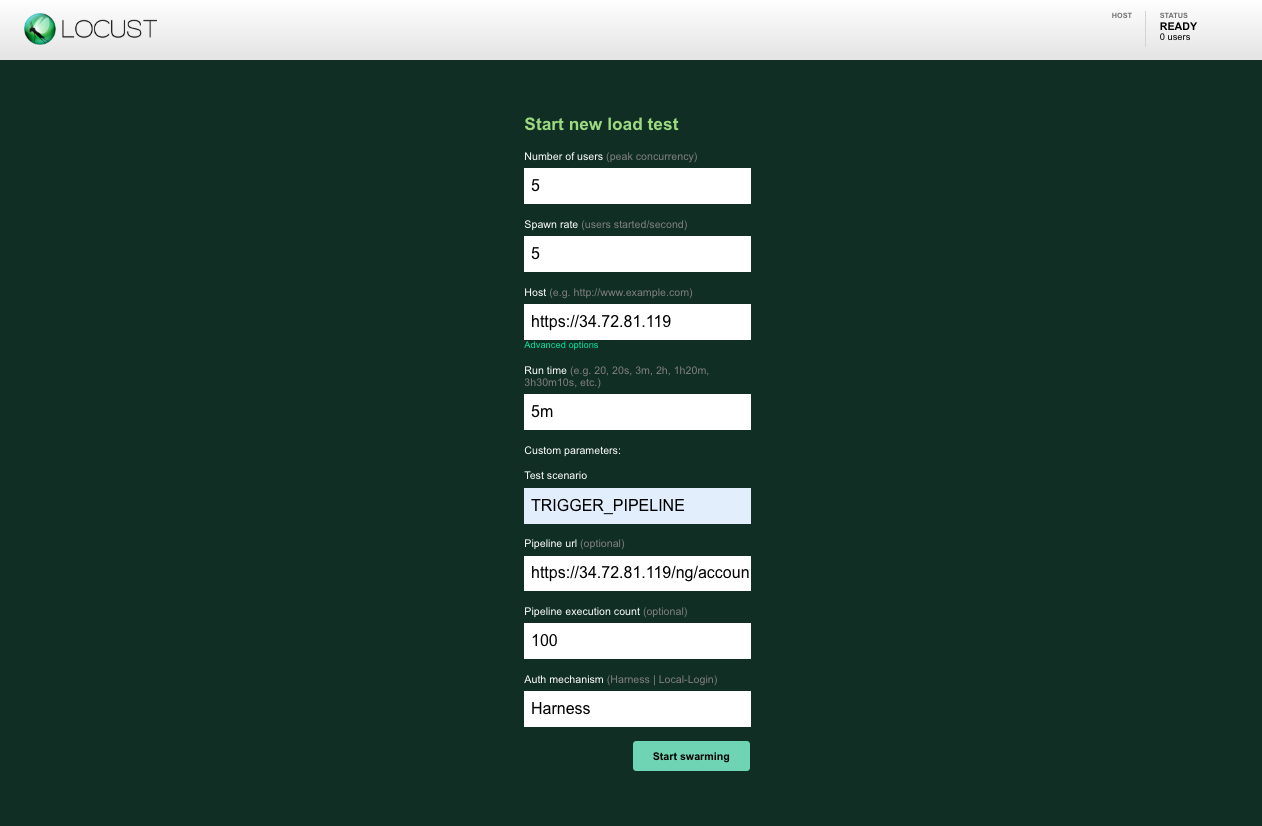
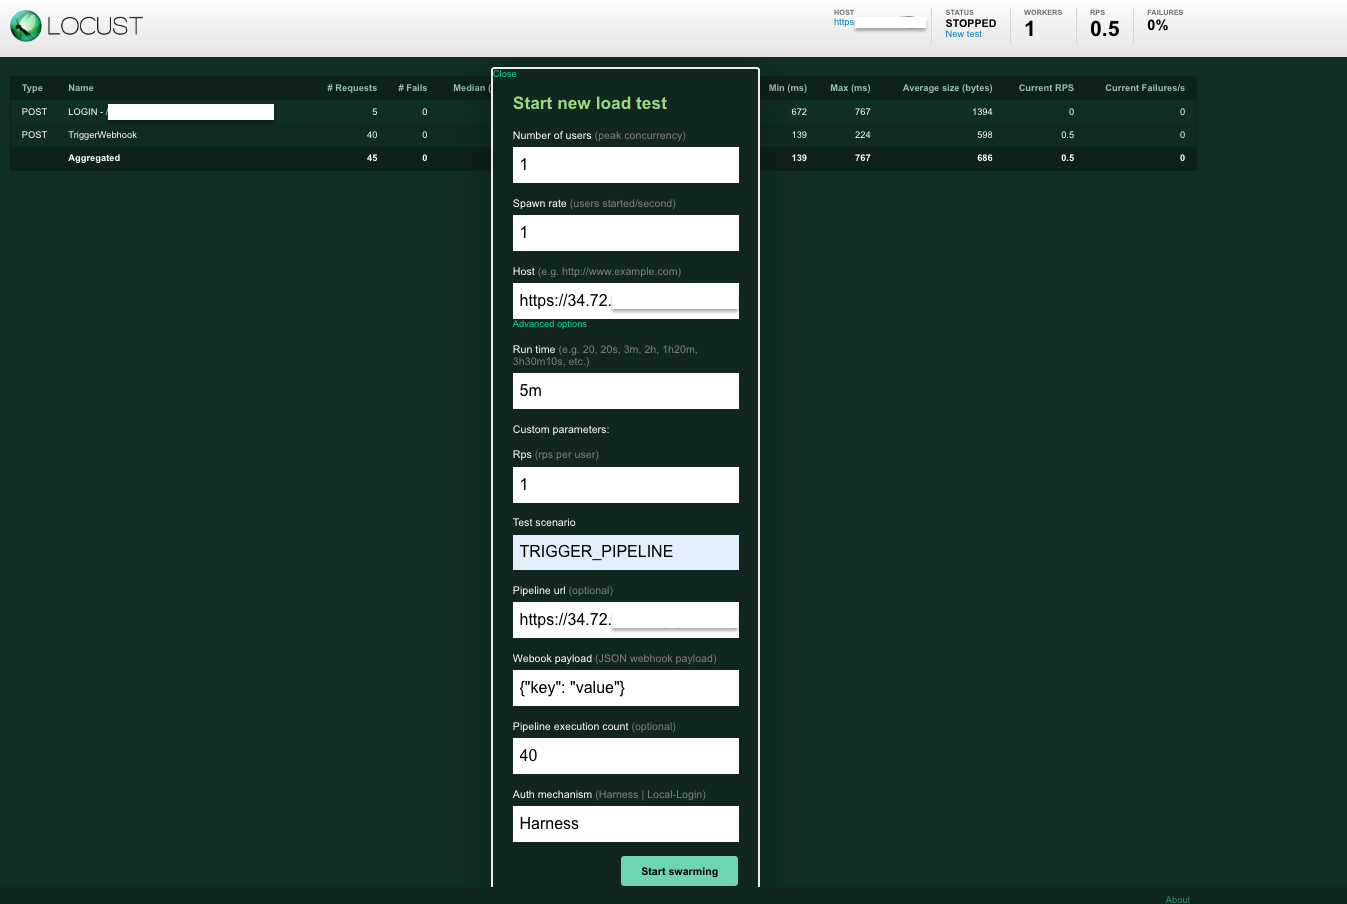
enable rps for all test classes

Changed region(s): [[0.0, 0.0, 1.0, 0.9988], [0.6181, 0.0, 0.649, 0.0303]]

diff --git a/locust_tasks/ci_pipeline_remote_run.py b/locust_tasks/ci_pipeline_remote_run.py
@@ -7,7 +7,7 @@ import yaml
 import base64
 import logging
 from locust.runners import LocalRunner, MasterRunner, WorkerRunner, STATE_STOPPING, STATE_STOPPED, STATE_CLEANUP
-from locust import task, constant_pacing, SequentialTaskSet, events
+from locust import task, constant_pacing, SequentialTaskSet, events, constant_throughput
 from locust.runners import WorkerRunner
 from locust_tasks.helpers.ng import account, organization, project, resourcegroup, \
     role, smtp, user, usergroup, gitsync, dashboard, connector, secret, pipeline, ti, log_service, \
@@ -50,6 +50,8 @@ def initiator(environment, **kwargs):
     environment.runner.state = "TESTDATA SETUP"
     global auth_mechanism
     auth_mechanism = environment.parsed_options.auth_mechanism
+    global rps
+    rps = float(environment.parsed_options.rps)
     try:
         testdata_setup = False
         arr = utils.getTestClasses(environment)
@@ -262,7 +264,15 @@ def create_ci_trigger_remote(hostname, identifier, accountId, orgId, projectId, 
 # Trigger pipeline added above 'deployment_count_needed' times
 class CI_PIPELINE_REMOTE_RUN(SequentialTaskSet):
     def data_initiator(self):
-        self.__class__.wait_time = constant_pacing(1 // 1)
+        try:
+            if rps > 0:
+                print(f"Current RPS requested per user : {rps}")
+                self.__class__.wait_time = constant_throughput(rps)
+            else:
+                if hasattr(self.__class__, 'wait_time'):
+                    del self.__class__.wait_time
+        except AttributeError:
+            pass
 
     def authentication(self):
         creds = next(utils.userid_list)[0].split(':')
@@ -279,7 +289,7 @@ class CI_PIPELINE_REMOTE_RUN(SequentialTaskSet):
             print("Login request failure..")
             print(f"{response.request.url} {payload} {response.status_code} {response.content}")
             print("--------------------------")
-            raise StopUser()
+            utils.stopLocustTests()
         else:
             resp = response.content
             json_resp = json.loads(resp)
@@ -295,7 +305,7 @@ class CI_PIPELINE_REMOTE_RUN(SequentialTaskSet):
     def triggerPipeline(self):
         global deployment_count
         deployment_count += 1
-        if deployment_count < deployment_count_needed:
+        if deployment_count <= deployment_count_needed:
             response = helpers.triggerWithWebHook(self, accountId, uniqueId)
 
             if response.status_code == 200:

diff --git a/locust_tasks/ci_pipeline_webhook_run.py b/locust_tasks/ci_pipeline_webhook_run.py
@@ -8,7 +8,7 @@ import base64
 import logging
 import random
 from locust.runners import LocalRunner, MasterRunner, WorkerRunner, STATE_STOPPING, STATE_STOPPED, STATE_CLEANUP
-from locust import task, constant_pacing, SequentialTaskSet, events
+from locust import task, constant_pacing, SequentialTaskSet, events, constant_throughput
 from locust.runners import WorkerRunner
 from locust_tasks.helpers.ng import account, organization, project, resourcegroup, \
     role, smtp, user, usergroup, gitsync, dashboard, connector, secret, pipeline, ti, log_service, \
@@ -51,6 +51,8 @@ def initiator(environment, **kwargs):
     environment.runner.state = "TESTDATA SETUP"
     global auth_mechanism
     auth_mechanism = environment.parsed_options.auth_mechanism
+    global rps
+    rps = float(environment.parsed_options.rps)
     try:
         testdata_setup = False
         arr = utils.getTestClasses(environment)
@@ -241,7 +243,15 @@ def create_ci_trigger_remote(hostname, identifier, accountId, orgId, projectId, 
 # Trigger non-git pipeline added above 'deployment_count_needed' times
 class CI_PIPELINE_WEBHOOK_RUN(SequentialTaskSet):
     def data_initiator(self):
-        self.__class__.wait_time = constant_pacing(1 // 1)
+        try:
+            if rps > 0:
+                print(f"Current RPS requested per user : {rps}")
+                self.__class__.wait_time = constant_throughput(rps)
+            else:
+                if hasattr(self.__class__, 'wait_time'):
+                    del self.__class__.wait_time
+        except AttributeError:
+            pass
 
     def authentication(self):
         creds = next(utils.userid_list)[0].split(':')
@@ -258,7 +268,7 @@ class CI_PIPELINE_WEBHOOK_RUN(SequentialTaskSet):
             print("Login request failure..")
             print(f"{response.request.url} {payload} {response.status_code} {response.content}")
             print("--------------------------")
-            raise StopUser()
+            utils.stopLocustTests()
         else:
             resp = response.content
             json_resp = json.loads(resp)
@@ -269,9 +279,6 @@ class CI_PIPELINE_WEBHOOK_RUN(SequentialTaskSet):
     def on_start(self):
         self.data_initiator()
         self.authentication()
-
-    @task
-    def setup_data(self):
         self.orgId = "auto_org_" + uniqueId
 
     @task

diff --git a/locust_tasks/ci_pipeline_run.py b/locust_tasks/ci_pipeline_run.py
@@ -8,7 +8,7 @@ import base64
 import logging
 import random
 from locust.runners import LocalRunner, MasterRunner, WorkerRunner, STATE_STOPPING, STATE_STOPPED, STATE_CLEANUP
-from locust import task, constant_pacing, SequentialTaskSet, events
+from locust import task, constant_pacing, SequentialTaskSet, events, constant_throughput
 from locust.runners import WorkerRunner
 from locust_tasks.helpers.ng import account, organization, project, resourcegroup, \
     role, smtp, user, usergroup, gitsync, dashboard, connector, secret, pipeline, ti, log_service, \
@@ -51,6 +51,8 @@ def initiator(environment, **kwargs):
     environment.runner.state = "TESTDATA SETUP"
     global auth_mechanism
     auth_mechanism = environment.parsed_options.auth_mechanism
+    global rps
+    rps = float(environment.parsed_options.rps)
     try:
         testdata_setup = False
         arr = utils.getTestClasses(environment)
@@ -193,7 +195,15 @@ def create_ci_pipeline(hostname, identifier, accountId, orgId, projectId, github
 # Trigger non-git pipeline added above 'deployment_count_needed' times
 class CI_PIPELINE_RUN(SequentialTaskSet):
     def data_initiator(self):
-        self.__class__.wait_time = constant_pacing(1 // 1)
+        try:
+            if rps > 0:
+                print(f"Current RPS requested per user : {rps}")
+                self.__class__.wait_time = constant_throughput(rps)
+            else:
+                if hasattr(self.__class__, 'wait_time'):
+                    del self.__class__.wait_time
+        except AttributeError:
+            pass
 
     def authentication(self):
         creds = next(utils.userid_list)[0].split(':')
@@ -210,7 +220,7 @@ class CI_PIPELINE_RUN(SequentialTaskSet):
             print("Login request failure..")
             print(f"{response.request.url} {payload} {response.status_code} {response.content}")
             print("--------------------------")
-            raise StopUser()
+            utils.stopLocustTests()
         else:
             resp = response.content
             json_resp = json.loads(resp)
@@ -221,9 +231,6 @@ class CI_PIPELINE_RUN(SequentialTaskSet):
     def on_start(self):
         self.data_initiator()
         self.authentication()
-
-    @task
-    def setup_data(self):
         self.orgId = "auto_org_" + uniqueId
 
     @task

diff --git a/locust_tasks/cd_pipeline_run.py b/locust_tasks/cd_pipeline_run.py
@@ -8,7 +8,7 @@ import time
 import gevent
 import yaml
 import requests
-from locust import task, constant_pacing, SequentialTaskSet, events
+from locust import task, constant_pacing, SequentialTaskSet, events, constant_throughput
 from locust.exception import StopUser
 from locust.runners import LocalRunner, MasterRunner, STATE_STOPPING, STATE_STOPPED, STATE_CLEANUP
 from locust.runners import WorkerRunner
@@ -51,6 +51,8 @@ def initiator(environment, **kwargs):
     environment.runner.state = "TESTDATA SETUP"
     global auth_mechanism
     auth_mechanism = environment.parsed_options.auth_mechanism
+    global rps
+    rps = float(environment.parsed_options.rps)
     try:
         testdata_setup = False
         arr = utils.getTestClasses(environment)
@@ -207,7 +209,15 @@ def create_k8s_pipeline(hostname, accountId, orgId, projectId, pipeline_id, serv
 
 class CD_PIPELINE_RUN(SequentialTaskSet):
     def data_initiator(self):
-        self.__class__.wait_time = constant_pacing(1)
+        try:
+            if rps > 0:
+                print(f"Current RPS requested per user : {rps}")
+                self.__class__.wait_time = constant_throughput(rps)
+            else:
+                if hasattr(self.__class__, 'wait_time'):
+                    del self.__class__.wait_time
+        except AttributeError:
+            pass
 
     def authentication(self):
         creds = next(utils.userid_list)[0].split(':')
@@ -224,7 +234,7 @@ class CD_PIPELINE_RUN(SequentialTaskSet):
             print("Login request failure..")
             print(f"{response.request.url} {payload} {response.status_code} {response.content}")
             print("--------------------------")
-            raise StopUser()
+            utils.stopLocustTests()
         else:
             resp = response.content
             json_resp = json.loads(resp)
@@ -235,10 +245,7 @@ class CD_PIPELINE_RUN(SequentialTaskSet):
     def on_start(self):
         self.data_initiator()
         self.authentication()
-
-    @task
-    def setup_data(self):
-        self.orgId = "auto_cd_k8s_org_" + uniqueId
+        self.orgId = "auto_cd_k8s_org_" + uniqueId        
 
     @task
     def trigger_pipeline(self):

diff --git a/locust_tasks/cd_pipeline_webhook_run.py b/locust_tasks/cd_pipeline_webhook_run.py
@@ -8,7 +8,7 @@ import time
 import gevent
 import yaml
 import requests
-from locust import task, constant_pacing, SequentialTaskSet, events
+from locust import task, constant_pacing, SequentialTaskSet, events, constant_throughput
 from locust.exception import StopUser
 from locust.runners import LocalRunner, MasterRunner, STATE_STOPPING, STATE_STOPPED, STATE_CLEANUP
 from locust.runners import WorkerRunner
@@ -51,6 +51,8 @@ def initiator(environment, **kwargs):
     environment.runner.state = "TESTDATA SETUP"
     global auth_mechanism
     auth_mechanism = environment.parsed_options.auth_mechanism
+    global rps
+    rps = float(environment.parsed_options.rps)
     try:
         testdata_setup = False
         arr = utils.getTestClasses(environment)
@@ -256,7 +258,15 @@ def create_cd_trigger_remote(hostname, identifier, accountId, orgId, projectId, 
 
 class CD_PIPELINE_WEBHOOK_RUN(SequentialTaskSet):
     def data_initiator(self):
-        self.__class__.wait_time = constant_pacing(1)
+        try:
+            if rps > 0:
+                print(f"Current RPS requested per user : {rps}")
+                self.__class__.wait_time = constant_throughput(rps)
+            else:
+                if hasattr(self.__class__, 'wait_time'):
+                    del self.__class__.wait_time
+        except AttributeError:
+            pass
 
     def authentication(self):
         creds = next(utils.userid_list)[0].split(':')
@@ -273,7 +283,7 @@ class CD_PIPELINE_WEBHOOK_RUN(SequentialTaskSet):
             print("Login request failure..")
             print(f"{response.request.url} {payload} {response.status_code} {response.content}")
             print("--------------------------")
-            raise StopUser()
+            utils.stopLocustTests()
         else:
             resp = response.content
             json_resp = json.loads(resp)
@@ -284,9 +294,6 @@ class CD_PIPELINE_WEBHOOK_RUN(SequentialTaskSet):
     def on_start(self):
         self.data_initiator()
         self.authentication()
-
-    @task
-    def setup_data(self):
         self.orgId = "auto_cd_k8s_org_" + uniqueId
 
     @task

diff --git a/locust_tasks/entities.py b/locust_tasks/entities.py
@@ -198,7 +198,7 @@ class ORGANIZATION(SequentialTaskSet):
             print("Login request failure..")
             print(f"{response.request.url} {payload} {response.status_code} {response.content}")
             print("--------------------------")
-            raise StopUser()
+            utils.stopLocustTests()
         else:
             resp = response.content
             json_resp = json.loads(resp)
@@ -270,7 +270,7 @@ class PROJECT(SequentialTaskSet):
             print("Login request failure..")
             print(f"{response.request.url} {payload} {response.status_code} {response.content}")
             print("--------------------------")
-            raise StopUser()
+            utils.stopLocustTests()
         else:
             resp = response.content
             json_resp = json.loads(resp)
@@ -345,7 +345,7 @@ class PIPELINE(SequentialTaskSet):
             print("Login request failure..")
             print(f"{response.request.url} {payload} {response.status_code} {response.content}")
             print("--------------------------")
-            raise StopUser()
+            utils.stopLocustTests()
         else:
             resp = response.content
             json_resp = json.loads(resp)

diff --git a/locust_tasks/trigger_pipeline.py b/locust_tasks/trigger_pipeline.py
@@ -75,9 +75,15 @@ def initiator(environment, **kwargs):
 class TRIGGER_PIPELINE(SequentialTaskSet):
 
     def data_initiator(self):
-        if rps != 0:
-            print(f"Current RPS requested per user : {rps}")
-            self.__class__.wait_time = constant_throughput(rps)
+        try:
+            if rps > 0:
+                print(f"Current RPS requested per user : {rps}")
+                self.__class__.wait_time = constant_throughput(rps)
+            else:
+                if hasattr(self.__class__, 'wait_time'):
+                    del self.__class__.wait_time
+        except AttributeError:
+            pass
         self.pipeline_comps = pipeline_link.split('/')
 
         if '/api/webhook' not in pipeline_link:
@@ -101,7 +107,7 @@ class TRIGGER_PIPELINE(SequentialTaskSet):
             print("Login request failure..")
             print(f"{response.request.url} {payload} {response.status_code} {response.content}")
             print("--------------------------")
-            raise StopUser()
+            utils.stopLocustTests()
         else:
             resp = response.content
             json_resp = json.loads(resp)

diff --git a/locust_tasks/helpers/authentication.py b/locust_tasks/helpers/authentication.py
@@ -22,7 +22,7 @@ def getBearerToken(obj, base64UsernamePassword):
     if response.status_code != 200:
         print(response.url)
         print(response.content)
-        raise StopUser()
+        utils.stopLocustTests()
     else:
         resp = response.content
         json_resp = json.loads(resp)
@@ -45,7 +45,7 @@ def getAccountInfo(obj, base64UsernamePassword, authMechanism):
         print(response.url)
         print(payload)
         print(response.content)
-        raise StopUser()
+        utils.stopLocustTests()
     else:
         resp = response.content
         return json.loads(resp)

diff --git a/locust_tasks/ci_pipeline_remote_save.py b/locust_tasks/ci_pipeline_remote_save.py
@@ -218,7 +218,7 @@ class CI_PIPELINE_REMOTE_SAVE(SequentialTaskSet):
             print("Login request failure..")
             print(f"{response.request.url} {payload} {response.status_code} {response.content}")
             print("--------------------------")
-            raise StopUser()
+            utils.stopLocustTests()
         else:
             resp = response.content
             json_resp = json.loads(resp)

diff --git a/locust_tasks/ci_execute_pipeline.py b/locust_tasks/ci_execute_pipeline.py
@@ -202,7 +202,7 @@ class CI_EXECUTE_PIPELINE(SequentialTaskSet):
             print("Login request failure..")
             print(f"{response.request.url} {payload} {response.status_code} {response.content}")
             print("--------------------------")
-            raise StopUser()
+            utils.stopLocustTests()
         else:
             resp = response.content
             json_resp = json.loads(resp)

diff --git a/locust_tasks/ci_create_pipeline.py b/locust_tasks/ci_create_pipeline.py
@@ -174,7 +174,7 @@ class CI_CREATE_PIPELINE(SequentialTaskSet):
             print("Login request failure..")
             print(f"{response.request.url} {payload} {response.status_code} {response.content}")
             print("--------------------------")
-            raise StopUser()
+            utils.stopLocustTests()
         else:
             resp = response.content
             json_resp = json.loads(resp)

diff --git a/locust_tasks/ci_update_pipeline.py b/locust_tasks/ci_update_pipeline.py
@@ -254,7 +254,7 @@ class CI_UPDATE_PIPELINE(SequentialTaskSet):
             print("Login request failure..")
             print(f"{response.request.url} {payload} {response.status_code} {response.content}")
             print("--------------------------")
-            raise StopUser()
+            utils.stopLocustTests()
         else:
             resp = response.content
             json_resp = json.loads(resp)
